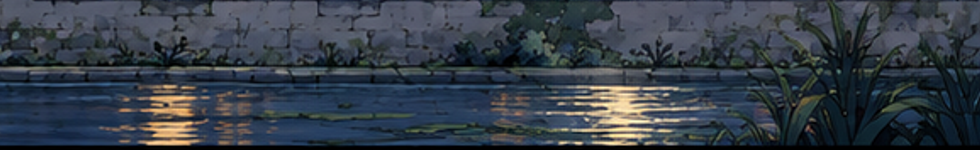
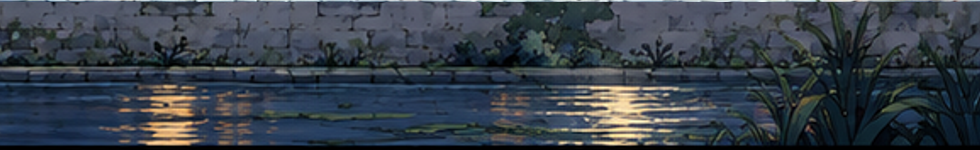
fix(chapter2): clarify qilou route and repair p09 coping
- Remove arrow labels and bottom route/status clutter; keep the title at the world-space start.
- Extend the collision blocker to the world top while preserving the original wall art geometry.
- Restore the bright coping at the top of p09 and regenerate its WebP.
- Update the regression probe and HANDOFF for teammates.

Verified: npm test 71/71, npm run build, qilou probe 11/11, p09 and WebP checks pass.

Changed region(s): [[0.0, 0.0, 1.0, 0.0267]]

diff --git a/src/scenes/ChapterTwoChallengeScene.ts b/src/scenes/ChapterTwoChallengeScene.ts
@@ -38,13 +38,6 @@ const SWINGS: SwingHazard[] = [
   { x: 930, y: 492, length: 112, phase: 1.7, label: '甩动竹竿' },
 ];
 
-/**
- * 世界空间路线提示的 depth。
- * 遮挡素材在 depth 16，会把提示文字整个吃掉（2026-10-05 实测：`↓ 落下后向左走` 被 c04 二层柱影盖住
- * 26px、`↓ 到底层后向右走` 被 c07 底层柱廊盖住 90px）。提示必须在遮挡之上、老师（18）与 HUD（200+）之下。
- */
-const ROUTE_HINT_DEPTH = 17;
-
 /** 光束 depth：高于所有世界层（含摆动 19、钞票 20–22），低于 HUD（200+）。 */
 const LIGHT_DEPTH = 30;
 
@@ -173,7 +166,7 @@ export default class ChapterTwoChallengeScene extends Phaser.Scene {
       this.addHurdle(1540, 865, 62, '摊位架'),
       this.addHurdle(2350, 910, 66, '修路栏'),
       this.addHurdle(3180, 950, 60, '街口木架'),
-      this.addWall(1682, 448, 38, 286, '此路封住 · 向左'),
+      this.addWall(1682, 0, 38, 734, '此路封住 · 向左'),
     ];
     this.drawCovers();
 
@@ -191,6 +184,7 @@ export default class ChapterTwoChallengeScene extends Phaser.Scene {
       .setOrigin(.5, 0).setDisplaySize(a.width, a.height).setDepth(19));
     this.createTeacher();
     this.hudGraphics = this.add.graphics().setDepth(200);
+    // 起点标题是世界物件，像老师一样随相机移出，不跟随 HUD。
     this.title = this.add.text(145, 24, '第二关 · 骑楼街逃课', {
       fontFamily: 'sans-serif', fontSize: '19px', color: '#253631',
       backgroundColor: 'rgba(247,241,220,.9)', padding: { x: 12, y: 8 },
@@ -198,11 +192,11 @@ export default class ChapterTwoChallengeScene extends Phaser.Scene {
     this.status = this.add.text(18, 474, '先向右逃。灯光从身后扫来时，马上松开方向键站定。', {
       fontFamily: 'sans-serif', fontSize: '14px', color: '#f4edda',
       backgroundColor: 'rgba(20,31,29,.9)', padding: { x: 11, y: 8 },
-    }).setOrigin(0).setDepth(201);
+    }).setOrigin(0).setDepth(201).setVisible(false);
     this.checkpointText = this.add.text(18, 514, '路线 · 第一层向右 →', {
       fontFamily: 'sans-serif', fontSize: '11px', color: '#40524c',
       backgroundColor: 'rgba(235,235,218,.82)', padding: { x: 8, y: 5 },
-    }).setOrigin(0, 1).setDepth(201);
+    }).setOrigin(0, 1).setDepth(201).setVisible(false);
     this.alertLabel = this.add.text(0, 0, '警觉 0%', {
       fontFamily: 'sans-serif', fontSize: '12px', color: '#f4ead0',
     }).setOrigin(0, .5).setDepth(201);
@@ -228,8 +222,6 @@ export default class ChapterTwoChallengeScene extends Phaser.Scene {
 
   private drawQilouStreet(): void {
     this.add.image(0, 0, 'night-background').setOrigin(0, 0).setDepth(-30);
-    this.add.text(1370, 515, '↓ 落下后向左走', { fontSize: '13px', color: '#d5dfdf', backgroundColor: '#23344baa', padding: { x: 6, y: 3 } }).setDepth(ROUTE_HINT_DEPTH);
-    this.add.text(455, 730, '↓ 到底层后向右走', { fontSize: '13px', color: '#d5dfdf', backgroundColor: '#23344baa', padding: { x: 6, y: 3 } }).setDepth(ROUTE_HINT_DEPTH);
   }
 
   private addStreetPlatform(x: number, y: number, width: number, height: number): void {
@@ -251,7 +243,9 @@ export default class ChapterTwoChallengeScene extends Phaser.Scene {
   private addWall(x: number, y: number, width: number, height: number, _label: string): Phaser.GameObjects.Rectangle {
     const wall = this.add.rectangle(x, y, width, height, 0xffffff, 0).setOrigin(.5, 0);
     this.physics.add.existing(wall, true);
-    this.add.image(x, y, 'night-w01').setOrigin(.5, 0).setDepth(11);
+    // 视觉仍按 night-w01 原始几何绘制；不可绕过的全高碰撞墙与贴图尺寸分离。
+    this.add.image(NIGHT.wall.x, NIGHT.wall.y, 'night-w01')
+      .setOrigin(.5, 0).setDisplaySize(NIGHT.wall.width, NIGHT.wall.height).setDepth(11);
     return wall;
   }
 
@@ -287,7 +281,7 @@ export default class ChapterTwoChallengeScene extends Phaser.Scene {
     debug.lineStyle(1,0x65f4c2,.95);
     for (const p of NIGHT.platforms) debug.strokeRect(p.x,p.y,p.width,p.height);
     for (const h of NIGHT.hurdles) debug.strokeRect(h.body.x,h.body.y,h.body.width,h.body.height);
-    debug.strokeRect(1663,448,38,286);
+    debug.strokeRect(1663,0,38,734);
     debug.lineStyle(1,0xe0b75d,.8);
     for(const c of NIGHT.covers) debug.strokeRect(c.zone.from,c.zone.minY,c.zone.to-c.zone.from,c.zone.maxY-c.zone.minY);
     const btn=document.createElement('button');btn.textContent='显示碰撞框';btn.onclick=()=>{debug.setVisible(!debug.visible);btn.textContent=debug.visible?'隐藏碰撞框':'显示碰撞框';};panel.append(btn);
@@ -499,7 +493,6 @@ export default class ChapterTwoChallengeScene extends Phaser.Scene {
     // worldView 随窗口比例变化（applyHDCamera 用 cover 模式，宽度 = 540 × 宽高比），
     // 所以 HUD 必须贴 view 的四条边定位，不能写死 960×540 的绝对坐标。
     const view = this.cameras.main.worldView;
-    this.title.setPosition(view.x + 145, view.y + 24);
     this.status.setPosition(view.x + 18, view.y + view.height - 66);
     this.checkpointText.setPosition(view.x + 18, view.y + view.height - 8);
     const x = view.x + view.width - 36 - 278;

diff --git a/tools/fix-chapter2-p09-coping.py b/tools/fix-chapter2-p09-coping.py
@@ -1,0 +1,93 @@
+#!/usr/bin/env python3
+"""给第二关长街段 p09 补回顶部亮石檐（角色站在石头上的视觉对位）。
+
+## 问题（2026-10-05，Simon 实机截图指出）
+
+玩家在第三层走到长街右段（x≈3050, 走道面 y=950）时，脚下是一条**暗边**，
+亮着的石砌面在它下面几像素——读作「人浮在石头上/站在墙沿的阴影里」。
+他自己圈出来：人物应该站在石头上面。
+
+## 量出来的根因
+
+1. 背景 `background-night.png` 在走道处是**镂空**的（alpha=0），镂空起始行就是
+   走道面：p06→820、p07→865、p08→910、p09→950。贴图段（p0x）负责补上这块。
+2. 背景在镂空线上方留了一条亮檐（受光的石头顶面边缘），它与镂空线的距离：
+   p06 2–3px、p07 5px、p08 4–5px、**p09 7–8px**。
+3. 关键在于贴图段自己的首行：p06/p07/p08 首行是**亮檐**（均值 104/108/115），
+   把背景亮檐到走道面之间的缝补亮，于是「亮檐 → 亮顶面 → 石面」连成一片；
+   而 **p09 首行是暗的**（均值 44，次行 59），于是在角色脚下形成一条暗缝。
+
+| 段 | 走道面 y | 背景亮檐 | 与走道面差 | 贴图首行亮度 |
+| --- | --- | --- | --- | --- |
+| p06 | 820 | 817 | 3px | 104 |
+| p07 | 865 | 860 | 5px | 108 |
+| p08 | 910 | 905 | 5px | 115 |
+| **p09** | **950** | **942** | **8px** | **44** ← 异常 |
+
+## 修法
+
+不改关卡几何（三层走道 820/865/910/950、碰撞、障碍、遮挡、检查点全部不动），
+只把 p09 的**前两行**换成背景自己 y=942/943 那两个像素行（同一幅画里紧贴上方的
+亮檐，x 范围 2700–3680 与 p09 完全 1:1 对应），于是亮檐自然延续到走道面上。
+
+p06/p07/p08 不动：它们的首行本来就是亮檐。
+
+用法：
+    /usr/bin/python3 tools/fix-chapter2-p09-coping.py            # 写回 p09.png
+    /usr/bin/python3 tools/fix-chapter2-p09-coping.py --check     # 只体检不改
+"""
+import sys
+from pathlib import Path
+
+from PIL import Image
+
+ROOT = Path(__file__).resolve().parent.parent
+BG = ROOT / 'assets/level2/night-v1/background-night.png'
+STRIP = ROOT / 'assets/level2/night-v1/p09.png'
+
+# p09 在舞台上的位置：世界 x 2700–3680、y 950–1100；背景同坐标处镂空。
+STRIP_X, STRIP_Y = 2700, 950
+COPING_Y = 942            # 背景里那条亮檐（世界 y）
+SOURCE_X = 2750           # 取源起点：2700–2749 与 p08 重叠、背景在那里也是镂空的，必须避开
+PATCH_ROWS = (0, 1)       # 要替换的 p09 行
+
+
+def main() -> int:
+    check_only = '--check' in sys.argv[1:]
+    background = Image.open(BG).convert('RGBA')
+    strip = Image.open(STRIP).convert('RGBA')
+    width, height = strip.size
+
+    if width != 980 or height != 150:
+        raise SystemExit(f'p09 尺寸变了（{width}x{height}），先复核本脚本的坐标假设')
+
+    span = STRIP_X + width - SOURCE_X
+    if any(background.getpixel((x, y))[3] < 8
+           for y in range(COPING_Y, COPING_Y + len(PATCH_ROWS))
+           for x in range(SOURCE_X, STRIP_X + width, 31)):
+        raise SystemExit('取源区间里背景仍镂空，本脚本的取源假设不成立')
+
+    # 从 2750 起取 930px 的亮檐，横向拉伸到 980（多出 5%，对 2px 高的高光条不可见），
+    # 得到一条单源、无接缝、与紧邻石檐亮度一致的顶面高光。
+    source = background.crop((SOURCE_X, COPING_Y, STRIP_X + width, COPING_Y + len(PATCH_ROWS)))
+    source = source.resize((width, len(PATCH_ROWS)), Image.LANCZOS)
+    before = [round(sum(strip.getpixel((x, y))[:3]) / 3) for y in PATCH_ROWS for x in (0, width // 2, width - 1)]
+    after = [round(sum(source.getpixel((x, i))[:3]) / 3) for i, _ in enumerate(PATCH_ROWS) for x in (0, width // 2, width - 1)]
+
+    print(f'p09 首两行亮度 {before} → {after}（p06/p07/p08 首行约 104–115）')
+    if check_only:
+        print('体检：' + ('OK' if min(after) > 90 else '首行仍偏暗，需要写回'))
+        return 0
+
+    if min(after) < 90:
+        raise SystemExit('取到的源行不够亮，拒绝写回（否则等于把暗缝换成另一条暗缝）')
+
+    patched = strip.copy()
+    patched.paste(source, (0, PATCH_ROWS[0]))
+    patched.save(STRIP)
+    print(f'已写回 {STRIP.relative_to(ROOT)}；接着跑 /usr/bin/python3 tools/optimize-images.py 重生成 WebP')
+    return 0
+
+
+if __name__ == '__main__':
+    raise SystemExit(main())

diff --git a/HANDOFF.md b/HANDOFF.md
@@ -9,8 +9,8 @@
 ## 1. 仓库与分支
 
 - repo：`https://github.com/SelenaLYU/Seek-game-demo`（private）；我的身份 `gxinxing`，权限 push + triage（无 admin）。
-- `origin/main` = `0f3c916`（PR #11：第二关记忆之房后半段灰盒 + 后续灰盒至此版结尾）。
-- 我的工作分支：`codex/level1-progress-music`（第一关 + UI/工程）。当前本地领先 `origin/codex/level1-progress-music` 1 个提交（`a5849e8` 四条体验遗留修复），**未推送**；PR 仍是 [#18](https://github.com/SelenaLYU/Seek-game-demo/pull/18)（open）。推送前先 `git fetch` 再看 `git status -sb`。
+- `origin/main` = `f3c90b4`（截至 2026-10-05 fetch；含第二关记忆之房后半段灰盒、岛屿等整合更新）。
+- 当前骑楼工作分支：`codex/level1-progress-music`（第一关 + UI/工程），本批提交基于 `139596f`；推送后该分支相对 `origin/main` 落后 7、领先 11 个提交。PR #18 已合并，本批变更是新的提交，不属于 PR #18；推送后需另开 PR / review。先 `git fetch` 再看 `git status -sb`，不要 force push。
 - 同日并行会话在做第二关美术 / 第三关灰盒与**李雷童年 3D 建模**（`assets/characters/lilei/tripo-out/`、`tools/*chapter2*` 等未跟踪文件归它）；改动前先看 `git status`，别把对方的在改文件带进提交。
 - 只读参考分支：`origin/ART`（**白昼**骑楼美术，2026-10-05 已废弃，见 `decisions/2026-10-05-qilou-art-night-only.md`）、`origin/island-prototype`、`origin/story-design`。**不要直接 merge `ART`**：它基于很旧的代码，会删掉近万行；只能挑文件。
 
@@ -50,7 +50,7 @@
 
 ## 4. 第二关（Selena 那一侧）现状
 
-验收记录（2026-10-05，骑楼美术定源后的可回归防线 + 一处可读性缺陷）：新增 `tools/probe-chapter2-qilou.mjs`，**10/10 通过**（A1 35 张贴图逐项对齐 `geometry.json`；B1 十处遮挡区内躲灯 maxExposure ≤1ms；B2 空地对照组被灯抓到——防 B1 假绿；C1 世界空间提示无 depth 冲突；D1/D2 跳跃净高 180 vs 66、滞空横移 258 vs 26；D3 九障碍都在平台上；D4 下落口 103px；E1 四检查点都落在该层走道面；F1 0 console error）。有牙验证：把场景 `inCover` 改成 `false` 后 B1 十处全 FAIL（433–950ms），还原后 10/10。同时修掉一个实测缺陷：两条世界空间路线提示 depth 10 < 遮挡素材 16，`↓ 到底层后向右走` 被 c07 底层柱廊盖住 90px、`↓ 落下后向左走` 被 c04 二层柱影盖住 26px，已提到 `ROUTE_HINT_DEPTH = 17`（低于老师 18 与 HUD 200），并加测试守住。`npm test` 61/61、`npm run build` 通过。
+验收记录（2026-10-05，骑楼修正）：路线现在靠场景构图，不叠箭头文字；底部 status/checkpoint 文案隐藏，章节标题固定在起点世界坐标。封墙碰撞从世界顶边延伸至 y=734，避免跳过二层折返；墙贴图仍按 `geometry.json` / `ChapterTwoNightArt.ts` 原始 38×286 几何绘制，视觉与全高碰撞体分离。修复长街 p09 与背景亮檐之间的暗缝：`tools/fix-chapter2-p09-coping.py` 将 p09 顶部两行从同坐标背景亮檐取样重建，PNG 保留、WebP 同步；`--check` 通过。此前 ROUTE_HINT_DEPTH=17 的文字提示已由本次无箭头方案取代。当前探针 `tools/probe-chapter2-qilou.mjs` **11/11 通过**（A1 35 张贴图对齐 geometry；B1/B2 遮挡与空地对照；C1 无箭头/底栏、起点标题固定；C2 无文字遮挡；D1–D4 可玩性；E1 四检查点；F1 0 console error）；`npm test` 71/71，`npm run build` 通过。
 
 PR #11 已合入：货架八件可交换（穷举 40320 种确认唯一解）、瓶盖一盘一笔画、六幕可点击分镜、回岛点亮第二段、岛屿章节列表 1–3、第三关入口提示「未完待续」+ 选项查看**第三关站位预告**（3 秒灰盒，可跳过，自动回岛）。
 
@@ -90,13 +90,13 @@ PR #11 已合入：货架八件可交换（穷举 40320 种确认唯一解）、
 
 ```bash
 bash dev.sh                 # 本地起（绕开 WorkBuddy 的 HMR shim；直接 npm run dev 可能 500）
-npm test                    # = node --test tests/*.test.mjs（当前 47 项）
+npm test                    # = node --test tests/*.test.mjs（当前 71 项）
 npm run build               # tsc --noEmit + vite build
 ```
 
 - 调试入口：`?scene=forest` / `?scene=room` / `?scene=island` / `?scene=chapter2` / `?scene=chapter2-room` / `?scene=chapter2-memory` / `?scene=chapter3-preview`。
 - 美术改动后跑一次 `/usr/bin/python3 tools/optimize-images.py`（PNG 保留，生成同名 WebP）；只体检用 `--check`（缺 WebP 或 WebP 比 PNG 旧就退出码 1）。
-- 第二关骑楼（贴图对齐／遮挡可用／提示可读性／可玩性／检查点）用 `node tools/probe-chapter2-qilou.mjs` 量（`ORIGIN=http://localhost:5179` 指定端口；`--json` 出原始数据；截图写 `screenshots/chapter2-qilou/`；任一条不达标退出码 1）。**当前 10 条全过**。它记了三个坑：采样不能放在自写的 rAF 循环里 await（headless 下 180ms 只有 1–3 帧游戏帧，会读到「角色还没起步」→ 十处遮挡全假绿），要按游戏帧数而非墙钟等待；落地判定要轮询（掉帧时 500ms 重力只推进一两帧）；位移别靠键盘投递，用 `preupdate` 里的小幅摆动制造 `moved` 判定。改探针前先看文件头。
+- 第二关骑楼（贴图对齐／遮挡可用／提示克制／可玩性／检查点）用 `node tools/probe-chapter2-qilou.mjs` 量（`ORIGIN=http://localhost:5179` 指定端口；`--json` 出原始数据；截图写 `screenshots/chapter2-qilou/`；任一条不达标退出码 1）。**当前 11 条全过**。它记了三个坑：采样不能放在自写的 rAF 循环里 await（headless 下 180ms 只有 1–3 帧游戏帧，会读到「角色还没起步」→ 十处遮挡全假绿），要按游戏帧数而非墙钟等待；落地判定要轮询（掉帧时 500ms 重力只推进一两帧）；位移别靠键盘投递，用 `preupdate` 里的小幅摆动制造 `moved` 判定。改探针前先看文件头。
 - 加载改动用 `node tools/probe-load-perf.mjs` 验收（`ORIGIN=http://localhost:4173` 量生产包）。
 - 第一关体验（石门裁切／礁石隐形墙／抓放海鸥突跳／触屏适配）用 `node tools/probe-level1-experience.mjs` 量，改前改后各跑一次看数字（`--json` 出原始数据；截图写 `screenshots/level1-experience/`；任一阈值超标退出码 1）。**当前 12 项全过**（A 门裁剪 · B 礁柱 · C1 抓取突跳 / C2 收身补间 / C3 收身整体 / D1–D7 触屏）。当年基线是 8 项，后来拆成 C1/C2/C3 并补了 D5–D7，所以「基线 1/8」与「现在 12/12」不是同一张表，数字对照要按同一版脚本跑。它的探针里记了两个坑：手动步进不推进 tween（量松手补间必须走真实 rAF），以及 sf0 层位置被 `screenSpaceOrigin` 补偿但**尺寸仍被 zoom 放大**（触屏判定要在放大后的缓冲像素里比边界）。测「角色在哪」不能用 `sprite.getBounds()`（含透明边的帧矩形，换帧会被读成位移），要按当前帧 alpha>128 内容中心算（脚本里 `installOpaqueCenter`）。
 - 测试里 `import` 相对模块需要带 `.ts` 后缀（node 直跑 ESM），`tsconfig` 已开 `allowImportingTsExtensions`。
